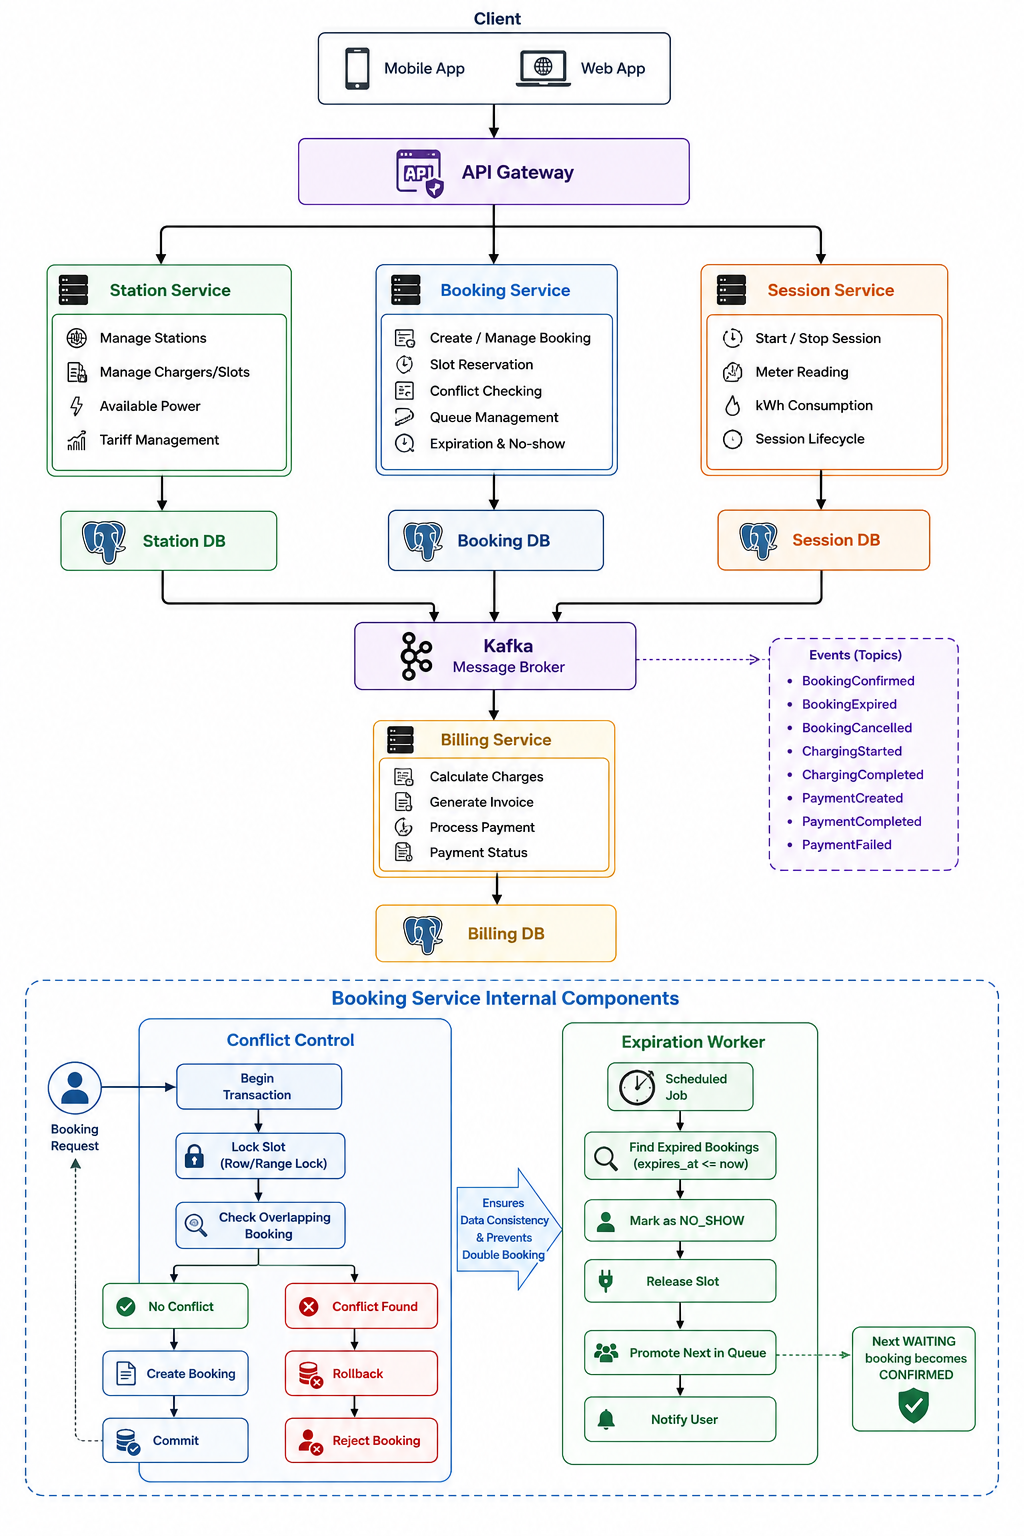
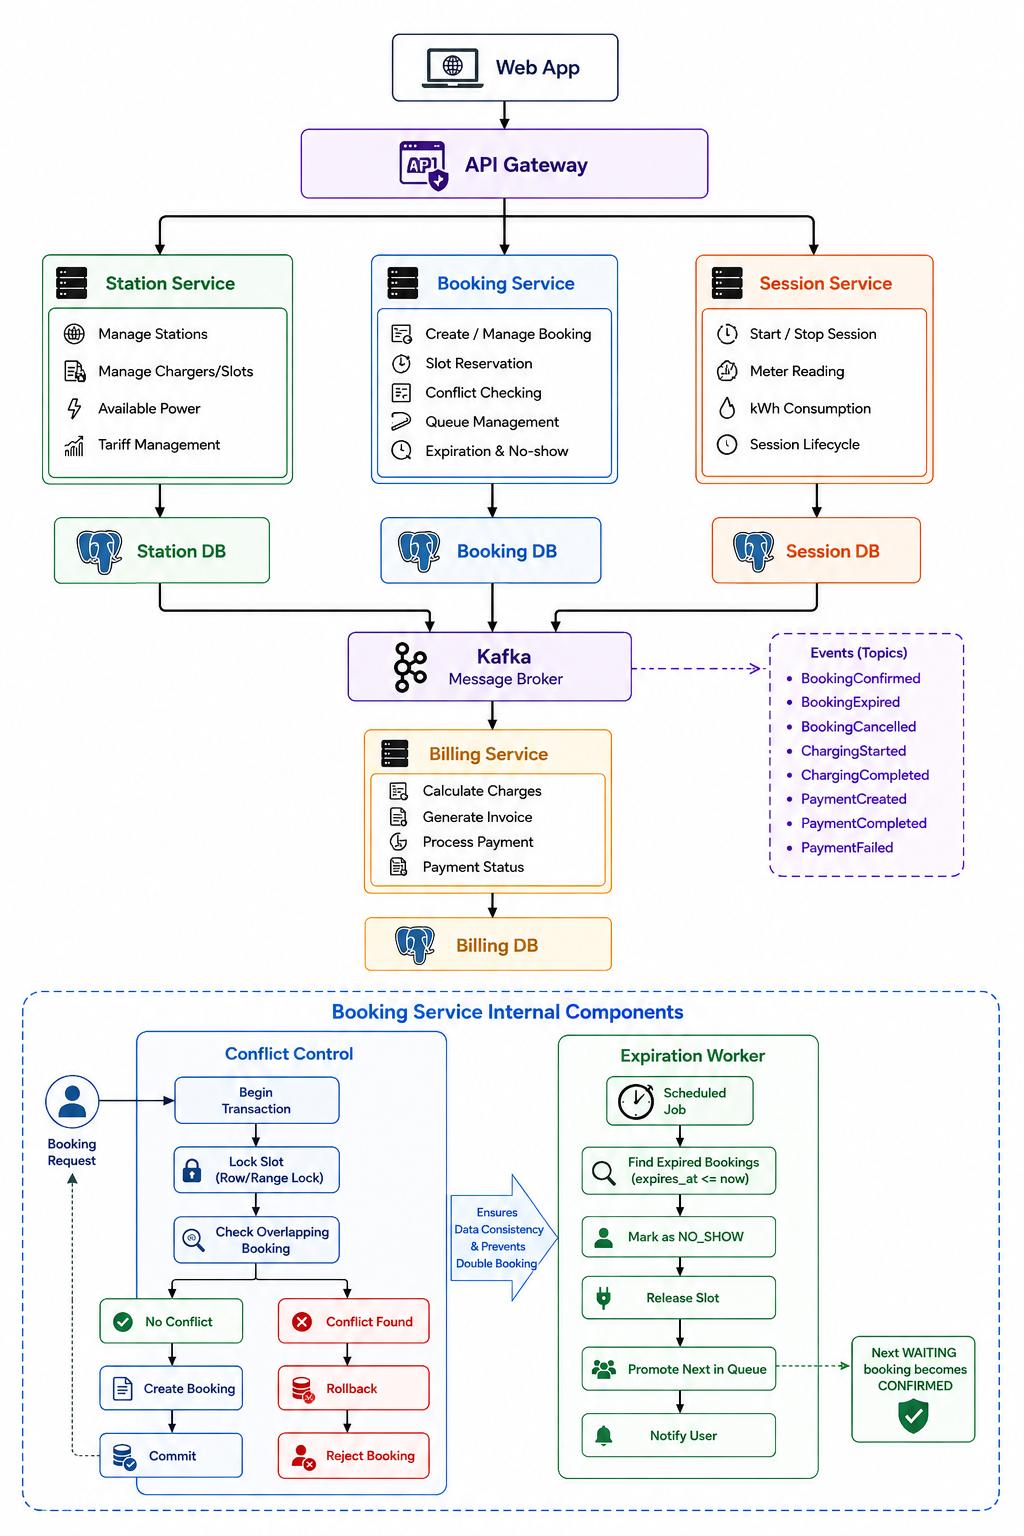
feat(database): add Data & Persistence Engineer workspace, schemas, patterns, and docs

Changed region(s): [[0.0312, 0.0, 0.9688, 1.0]]

diff --git a/database/docs/ERD.md b/database/docs/ERD.md
@@ -187,3 +187,52 @@ erDiagram
         timestamp created_at
     }
 ```
+
+---
+
+## 5. `user_db` (user-service)
+
+Mengelola akun pengguna, autentikasi, dan data kendaraan listrik milik user.
+
+```mermaid
+erDiagram
+    USERS ||--|{ USER_VEHICLES : "owns"
+
+    USERS {
+        string id PK
+        string name
+        string email UK
+        string phone
+        string password_hash
+        string role
+        string status
+        timestamp created_at
+        timestamp updated_at
+    }
+
+    USER_VEHICLES {
+        string id PK
+        string user_id FK
+        string brand
+        string model
+        string license_plate UK
+        string connector_type
+        decimal battery_capacity_kwh
+        boolean is_default
+        timestamp created_at
+        timestamp updated_at
+    }
+```
+
+---
+
+## 6. Relasi Lintas Database (`user_id`)
+
+Karena setiap service memiliki database terpisah, `user_id` dipegang sebagai **foreign key logis** (bukan constraint fisik) di setiap service:
+
+| Database | Tabel | Kolom | Referensi logis ke |
+|---|---|---|---|
+| `booking_db` | `bookings` | `user_id` | `user_db.users.id` |
+| `booking_db` | `waitlists` | `user_id` | `user_db.users.id` |
+| `session_db` | `charging_sessions` | `user_id` | `user_db.users.id` |
+| `billing_db` | `invoices` | `user_id` | `user_db.users.id` |

diff --git a/docs/architecture.md b/docs/architecture.md
@@ -10,6 +10,16 @@ Sistem Booking Charger Kendaraan Listrik dirancang untuk:
 
 ## 2. Bounded Context dan Service
 
+### user-service
+Tanggung jawab:
+- registrasi dan autentikasi user,
+- manajemen profil dan kendaraan listrik,
+- penerbitan token JWT.
+
+Data utama:
+- User(id, name, email, passwordHash, role, status)
+- UserVehicle(id, userId, brand, model, licensePlate, connectorType, batteryCapacityKwh)
+
 ### station-service
 Tanggung jawab:
 - data stasiun (lokasi, kapasitas daya),
@@ -135,6 +145,14 @@ Implementasi:
 - Partitioning tabel booking berdasarkan station_id atau waktu jika volume tinggi.
 
 ## 7. API Ringkas yang Disarankan
+
+user-service:
+- POST /auth/register
+- POST /auth/login
+- GET /users/me
+- PUT /users/me
+- GET /users/me/vehicles
+- POST /users/me/vehicles
 
 station-service:
 - GET /stations

diff --git a/docs/diagrams.md b/docs/diagrams.md
@@ -6,11 +6,13 @@
 flowchart LR
     U[User App] --> APIGW[API Gateway]
 
+    APIGW --> US[user-service]
     APIGW --> ST[station-service]
     APIGW --> BK[booking-service]
     APIGW --> SS[session-service]
     APIGW --> BL[billing-service]
 
+    US --> USDB[(User DB)]
     ST --> STDB[(Station DB)]
     BK --> BKDB[(Booking DB)]
     SS --> SSDB[(Session DB)]
